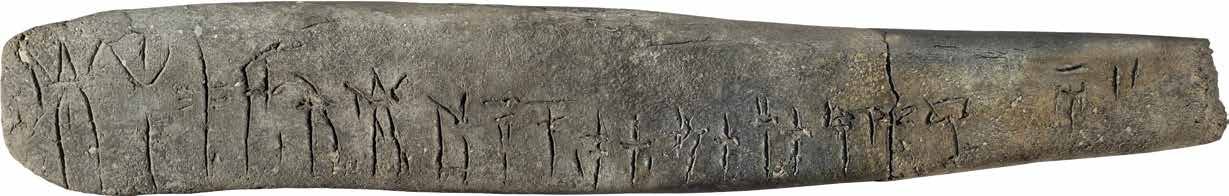
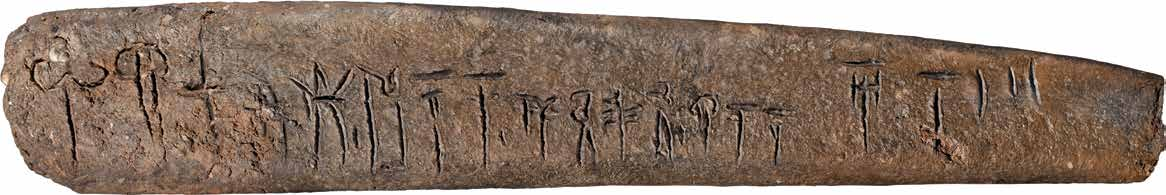
Add undo to image mapper

diff --git a/imagemaps.js b/imagemaps.js
@@ -657,6 +657,7 @@ var inscriptionCoordinates = [
 {"areas":[{"coords":{"x":495,"y":13,"width":39,"height":74}},{"coords":{"x":522,"y":10,"width":56,"height":65}},{"coords":{"x":568,"y":17,"width":42,"height":57}},{"coords":{"x":602,"y":10,"width":50,"height":66}},{"coords":{"x":643,"y":4,"width":54,"height":68}},{"coords":{"x":703,"y":2,"width":62,"height":76}},{"coords":{"x":761,"y":8,"width":72,"height":71}},{"coords":{"x":8,"y":15,"width":61,"height":147}},{"coords":{"x":57,"y":29,"width":48,"height":133}},{"coords":{"x":93,"y":10,"width":73,"height":149}},{"coords":{"x":159,"y":33,"width":72,"height":131}},{"coords":{"x":229,"y":13,"width":81,"height":151}},{"coords":{"x":312,"y":28,"width":59,"height":85}},{"coords":{"x":369,"y":15,"width":47,"height":128}},{"coords":{"x":483,"y":65,"width":44,"height":74}},{"coords":{"x":533,"y":65,"width":41,"height":87}},{"coords":{"x":567,"y":63,"width":59,"height":91}},{"coords":{"x":616,"y":65,"width":77,"height":86}},{"coords":{"x":692,"y":62,"width":60,"height":92}},{"coords":{"x":745,"y":73,"width":44,"height":82}}],"img":"images/photos/Py106_PN_0.jpg"},
 {"areas":[{"coords":{"x":70,"y":133,"width":0,"height":0}},{"coords":{"x":75,"y":113,"width":67,"height":127}},{"coords":{"x":145,"y":100,"width":73,"height":135}},{"coords":{"x":213,"y":120,"width":59,"height":122}},{"coords":{"x":253,"y":107,"width":105,"height":135}},{"coords":{"x":348,"y":98,"width":85,"height":135}},{"coords":{"x":473,"y":110,"width":102,"height":123}},{"coords":{"x":567,"y":105,"width":93,"height":143}},{"coords":{"x":78,"y":237,"width":99,"height":111}},{"coords":{"x":170,"y":235,"width":82,"height":125}},{"coords":{"x":228,"y":202,"width":99,"height":141}},{"coords":{"x":453,"y":240,"width":62,"height":122}},{"coords":{"x":530,"y":230,"width":105,"height":137}},{"coords":{"x":645,"y":220,"width":57,"height":122}}],"img":"images/facsimiles/Kn1645.jpg"},
 {"areas":[{"coords":{"x":56,"y":56,"width":145,"height":167}},{"coords":{"x":176,"y":32,"width":141,"height":195}}],"img":"images/facsimiles/Kn123.jpg"},
+{"areas":[{"coords":{"x":40,"y":17,"width":50,"height":114}},{"coords":{"x":86,"y":14,"width":45,"height":113}},{"coords":{"x":117,"y":11,"width":50,"height":105}},{"coords":{"x":150,"y":1,"width":48,"height":119}},{"coords":{"x":188,"y":8,"width":66,"height":111}},{"coords":{"x":261,"y":15,"width":75,"height":106}},{"coords":{"x":314,"y":7,"width":64,"height":110}},{"coords":{"x":372,"y":15,"width":62,"height":106}},{"coords":{"x":429,"y":34,"width":86,"height":97}},{"coords":{"x":527,"y":25,"width":52,"height":97}},{"coords":{"x":600,"y":15,"width":65,"height":103}},{"coords":{"x":743,"y":75,"width":0,"height":1}},{"coords":{"x":743,"y":75,"width":0,"height":0}},{"coords":{"x":743,"y":75,"width":0,"height":0}},{"coords":{"x":800,"y":18,"width":53,"height":107}},{"coords":{"x":852,"y":31,"width":53,"height":94}},{"coords":{"x":894,"y":13,"width":73,"height":110}},{"coords":{"x":48,"y":109,"width":76,"height":99}},{"coords":{"x":545,"y":185,"width":0,"height":0}},{"coords":{"x":545,"y":185,"width":0,"height":0}},{"coords":{"x":545,"y":185,"width":0,"height":0}},{"coords":{"x":545,"y":185,"width":0,"height":0}},{"coords":{"x":545,"y":185,"width":0,"height":0}},{"coords":{"x":545,"y":185,"width":0,"height":0}},{"coords":{"x":545,"y":185,"width":0,"height":0}},{"coords":{"x":545,"y":185,"width":0,"height":0}},{"coords":{"x":545,"y":185,"width":0,"height":0}},{"coords":{"x":874,"y":122,"width":65,"height":112}},{"coords":{"x":959,"y":121,"width":55,"height":112}},{"coords":{"x":1011,"y":109,"width":70,"height":114}},{"coords":{"x":1074,"y":39,"width":99,"height":192}},{"coords":{"x":1163,"y":39,"width":64,"height":91}},{"coords":{"x":1219,"y":46,"width":61,"height":184}},{"coords":{"x":1270,"y":31,"width":76,"height":186}}],"img":"images/photos/Py321_PN_0.jpg"},
 ];
 
 var coordinates = new Map();

diff --git a/imagemapper/summerHTMLImageMapCreator.js b/imagemapper/summerHTMLImageMapCreator.js
@@ -219,6 +219,7 @@ var summerHtmlImageMapCreator = (function() {
                 DELETE : 46,
                 I      : 73,
                 S      : 83,
+                U      : 85,
                 N      : 78,
                 C      : 67,
                 O      : 79,
@@ -398,6 +399,10 @@ var summerHtmlImageMapCreator = (function() {
                         info.unload();
                     }
                     
+                    break;
+
+                case KEYS.U:
+                    app.undo();
                     break;
                 
                 case KEYS.I:
@@ -636,6 +641,12 @@ var summerHtmlImageMapCreator = (function() {
                 }
                 code.hide();
                 info.unload();
+                return this;
+            },
+            undo : function() {
+                state.areas.pop();
+                document.getElementById("inscription").children[state.areas.length].style.color = "white";
+                domElements.svg.removeChild(domElements.svg.childNodes[domElements.svg.childNodes.length-1]);
                 return this;
             },
             removeObject : function(obj) {
@@ -2977,6 +2988,11 @@ var summerHtmlImageMapCreator = (function() {
             e.preventDefault();
         }
 
+        function onUndoButtonClick(e) {
+            app.undo();
+            e.preventDefault();
+        }
+
         function onDownloadButtonClick(e) {
             app.download();
             e.preventDefault();
@@ -3002,6 +3018,7 @@ var summerHtmlImageMapCreator = (function() {
         rectangle.addEventListener('click', onShapeButtonClick, false);
         polygon.addEventListener('click', onShapeButtonClick, false);
         edit.addEventListener('click', onEditButtonClick, false);
+        undo.addEventListener('click', onUndoButtonClick, false);
         download.addEventListener('click', onDownloadButtonClick, false);
         show_help.addEventListener('click', onShowHelpButtonClick, false);
 

diff --git a/imagemapper/index.htm b/imagemapper/index.htm
@@ -43,6 +43,7 @@
                 <li id="rectangle"><a href="#">rectangle</a></li>
                 <li id="polygon"><a href="#">polygon</a></li>
                 <li id="edit"><a href="#">edit</a></li>
+                <li id="undo"><a href="#">undo</a></li>
                 <li id="download"><a href="#">download</a></li>
                 <li id="show_help"><a href="#">help</a></li>
             </ul>
